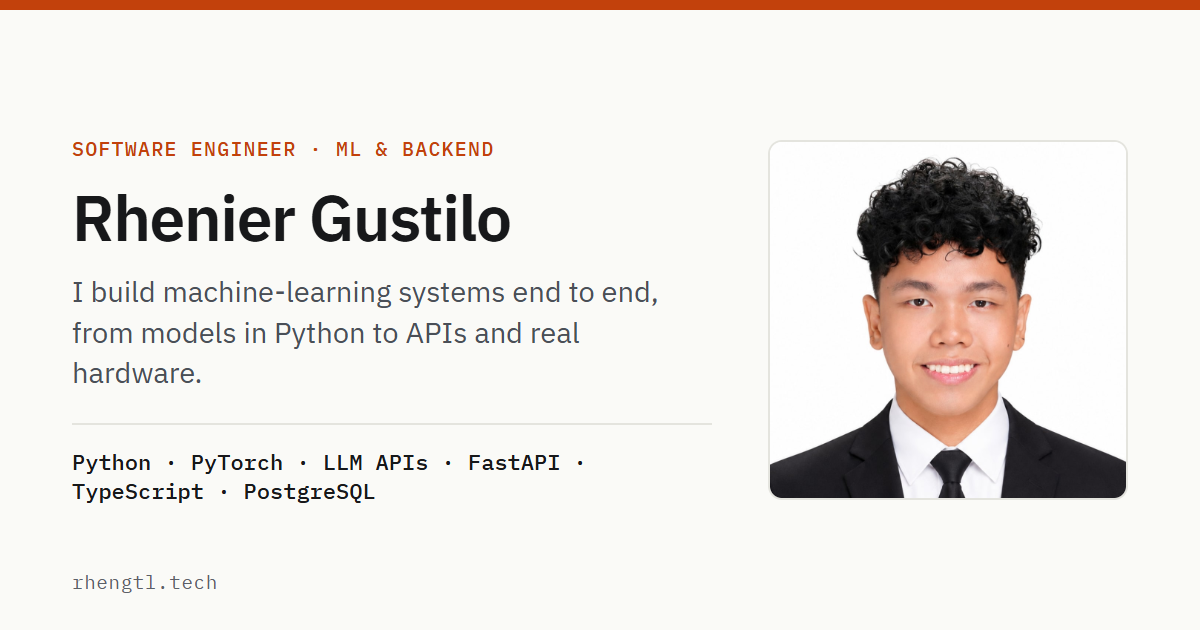
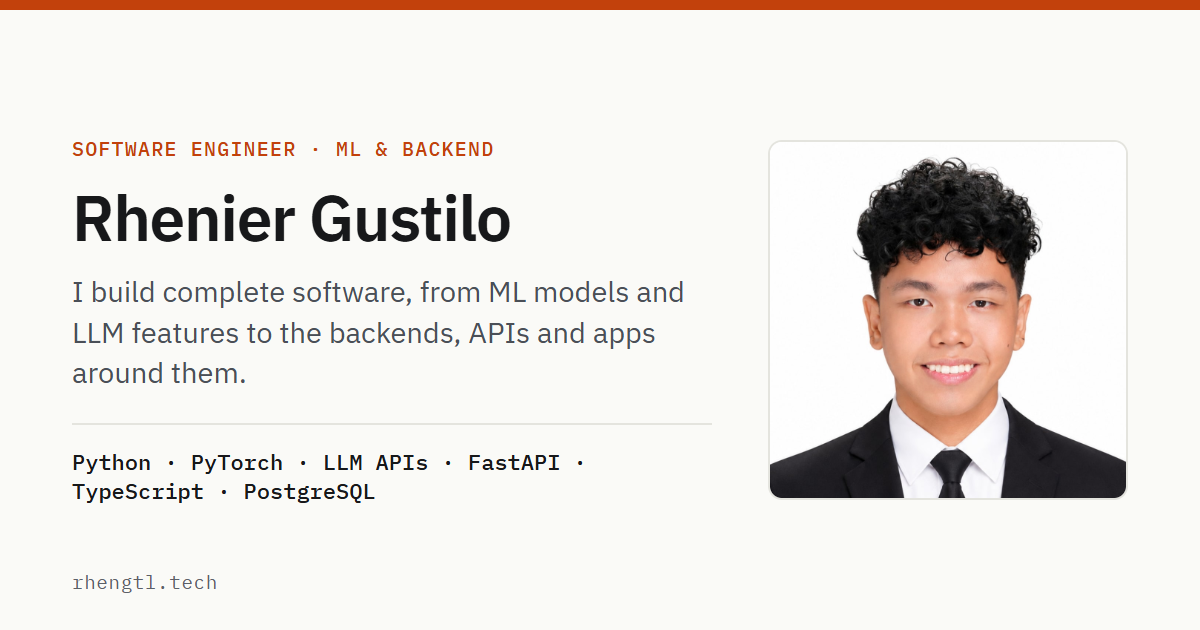
Broaden portfolio positioning

Changed region(s): [[0.0617, 0.5127, 0.555, 0.5429], [0.1233, 0.4524, 0.5858, 0.4825], [0.0617, 0.573, 0.2158, 0.6333]]

diff --git a/src/data/site.ts b/src/data/site.ts
@@ -24,7 +24,7 @@ export const site = {
   description:
     'Rhenier Gustilo, Computer Engineering graduate building ML and backend systems: real-time speech AI, LLM services, and offline-first apps.',
   mission:
-    'I build AI-powered software end to end: real-time speech pipelines on a Raspberry Pi, LLM services at the edge, and offline-first apps that keep working without a signal.',
+    'I build complete software, from machine-learning models and LLM features to the backend services, APIs and apps around them, and I test and measure what I ship.',
   education: {
     degree: 'BS Computer Engineering',
     specialization: 'Machine Learning specialization',
